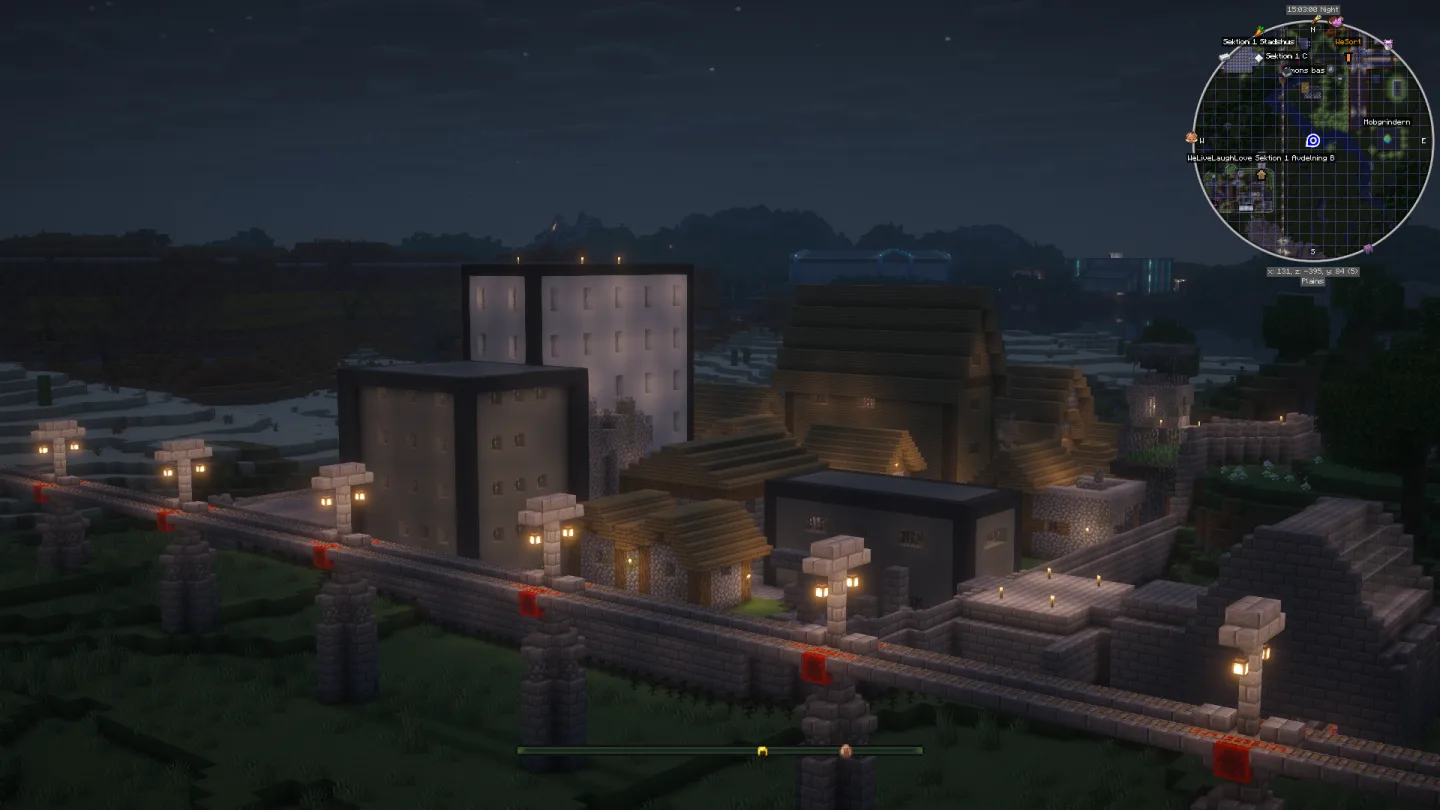
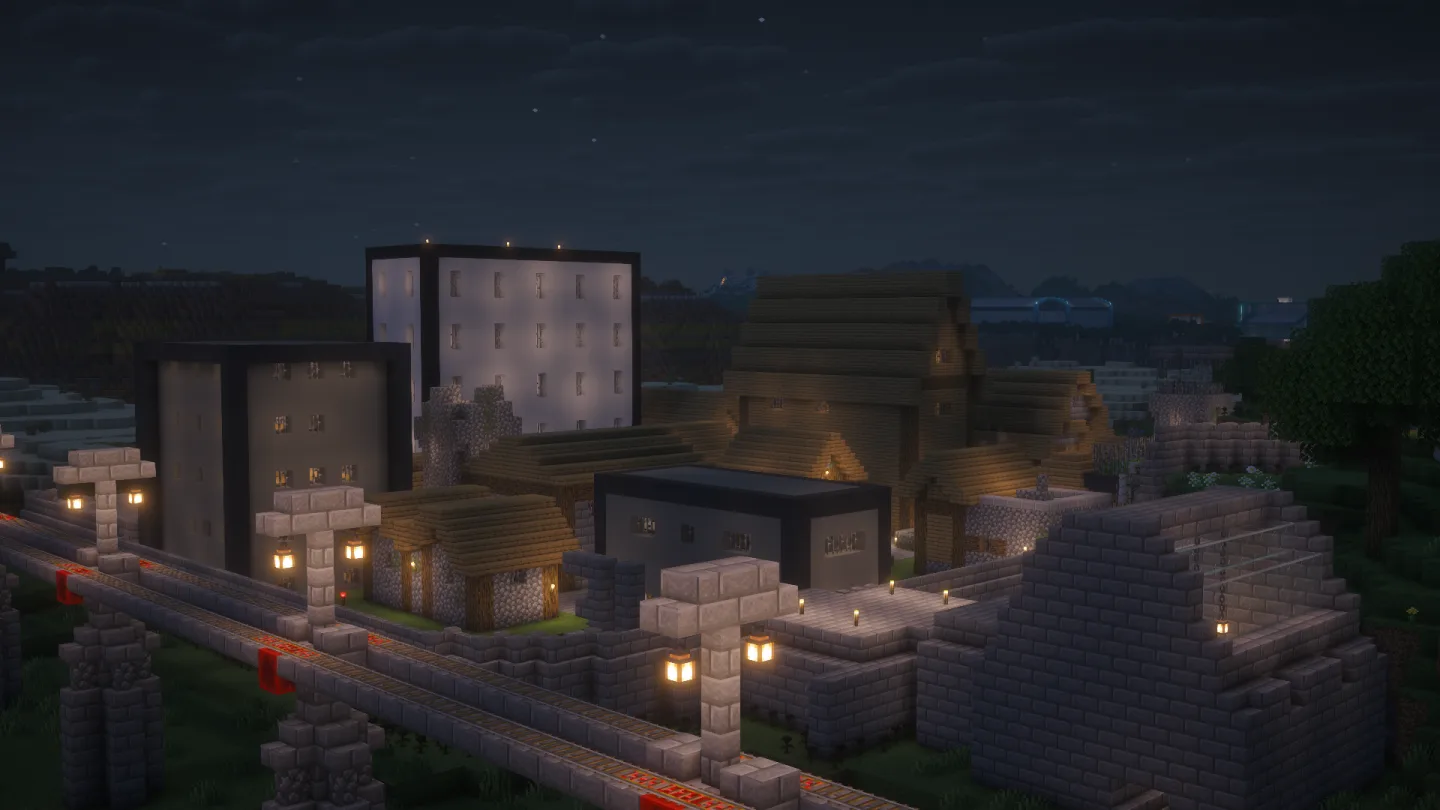
Remove gallery captions and correct Section 1 overview image

diff --git a/src/data/projects.ts b/src/data/projects.ts
@@ -10,7 +10,7 @@ export interface Project {
   alt: string;
   stage?: string;
   detailUrl?: string;
-  gallery?: { image: string; alt: string; caption: string }[];
+  gallery?: { image: string; alt: string }[];
 }
 export const projects: Project[] = [
   {
@@ -24,10 +24,10 @@ export const projects: Project[] = [
     detailUrl: '/arena/'
   },
   {id:'section-1-overview',name:'Sektion 1',division:'WeAB',category:'Infrastruktur',description:'Från järnfarmen till sorteringshallen ligger produktion, lager och räls inom bekvämt avstånd från ledningens kalkylark.',image:'/images/section-1-overview.webp',alt:'Överblick över Sektion 1 med järnfarm, produktionsbyggnader, mobgrinder och räls'},
-  {id:'bedrock-hole',name:'Bedrockhålet',division:'WeAB',category:'Monument · Sektion 1',description:'Bredvid WeKills kontor har en hel chunk grävts ned till bedrock. Väggarna pryds av guld, järn och smaragder. WeAB hade pengar över och valde ett projekt som inte riskerade att hjälpa någon.',image:'/images/bedrock-hole-exterior.webp',alt:'Bedrockhålet i Sektion 1 sett ovanifrån, med lysande pelare och väggar av guld, järn och smaragder',gallery:[{image:'/images/bedrock-hole-interior.webp',alt:'Vy uppåt genom Bedrockhålet mot himlen, med upplysta rader av guld, järn och smaragder längs väggarna',caption:'Från botten av schaktet'}]},
+  {id:'bedrock-hole',name:'Bedrockhålet',division:'WeAB',category:'Monument · Sektion 1',description:'Bredvid WeKills kontor har en hel chunk grävts ned till bedrock. Väggarna pryds av guld, järn och smaragder. WeAB hade pengar över och valde ett projekt som inte riskerade att hjälpa någon.',image:'/images/bedrock-hole-exterior.webp',alt:'Bedrockhålet i Sektion 1 sett ovanifrån, med lysande pelare och väggar av guld, järn och smaragder',gallery:[{image:'/images/bedrock-hole-interior.webp',alt:'Vy uppåt genom Bedrockhålet mot himlen, med upplysta rader av guld, järn och smaragder längs väggarna'}]},
   {id:'werule-riksdagshuset',name:'Riksdagshuset',division:'WeRule',category:'Offentlig byggnad · Huvudstaden',description:'Serverns riksdag ligger i en statlig byggnad i Huvudstaden. Byggnaden ägs av WeAB. Det offentliga uppdraget och den privata ägaren delar adress.',image:'/images/werule-riksdagshuset.webp',alt:'Riksdagshuset i Huvudstaden med cyan fasad, WE-symbol och vit staty intill'},
   {id:'werule-stadshus',name:'Stadshuset i Sektion 1',division:'WeRule',category:'Offentlig byggnad · Sektion 1',description:'WeRules stadshus i Sektion 1 är en egen byggnad, skild från Riksdagshuset i Huvudstaden. Dess plats finns markerad på servern.',image:'/images/werule-sektion-1-stadshus.webp',alt:'Stadshuset i Sektion 1, en mörk stenbyggnad med höga fönster och trappor vid entrén'},
-  {id:'wesort-facility', name:'WeSort-anläggningen',division:'WeSort', category:'Logistik', description:'Bakom den välordnade fasaden finns en sorteringshall med alldeles för många ambitioner.',image:'/images/wesort-exterior.webp',alt:'WeSort-anläggningens fasad',gallery:[{image:'/images/wesort-interior.webp',alt:'Sorteringshallen inne i WeSort-anläggningen',caption:'Sorteringshallen'}]},
+  {id:'wesort-facility', name:'WeSort-anläggningen',division:'WeSort', category:'Logistik', description:'Bakom den välordnade fasaden finns en sorteringshall med alldeles för många ambitioner.',image:'/images/wesort-exterior.webp',alt:'WeSort-anläggningens fasad',gallery:[{image:'/images/wesort-interior.webp',alt:'Sorteringshallen inne i WeSort-anläggningen'}]},
   {id:'webox',name:'WeBox-anslutningen',division:'WeBox',category:'Lagersystem',description:'Varje shulkerbox har en plats. Varje plats har en ägare.',image:'/images/webox-terminal.webp',alt:'WeBox terminal'},
   {id:'wekill-hq',name:'WeKill i Sektion 1',division:'WeKill',category:'Kontor',description:'Produktionsbolagets byggnad med den karakteristiska röda WE-identiteten.',image:'/images/wekill-headquarters.webp',alt:'WeKill huvudkontor'},
   {id:'wekill-farms',name:'Farmkomplexet',division:'WeKill',category:'Produktion',description:'En större grupp anläggningar för organiserad resursproduktion.',image:'/images/wekill-farms.webp',alt:'WeKill farmkomplex'},
@@ -44,10 +44,10 @@ export const projects: Project[] = [
   {id:'wetravel-huvudstaden-centralstation',name:'Huvudstadens centralstation',division:'WeTravel',category:'Station · Huvudstaden',description:'Inne på centralstationen i Huvudstaden möts räls, upplysta väggar och en lila portal.',image:'/images/wetravel-huvudstaden-centralstation.webp',alt:'WeTravels centralstation i Huvudstaden med räls, takbelysning och lila portal'},
   {id:'wetravel-sektion-1-centralstation',name:'Centralstationen i Sektion 1',division:'WeTravel',category:'Station · Sektion 1',description:'Centralstationen i Sektion 1 har en tegelfasad med turkosa dörrar. Här syns byggnaden utifrån.',image:'/images/wetravel-sektion-1-centralstation.webp',alt:'WeTravels centralstation i Sektion 1 med tegelfasad, lyktor och turkosa dörrar'},
   {id:'wegamble-island',name:'WeGamble Island',division:'WeGamble',category:'Underhållning',description:'En kasinoö växer fram vid kusten. Målet är enkelt: gästerna tar med diamanter. Koncernen ser till att de inte behöver bära hem dem.',image:'/images/construction-coast.webp',alt:'WeGamble Island, koncernens kasinoö under byggnation',stage:'Under byggnation'},
-  {id:'welivelaughlove-compound',name:'Sektion 1 · Avdelning B',division:'WeLiveLaughLove',category:'Boende',description:'En trygg och välavgränsad tillvaro i Sektion 1. Rörelsefriheten är lika stor för alla: tillräcklig.',image:'/images/welivelaughlove-compound.webp',alt:'WeLiveLaughLoves boendedistrikt i Sektion 1, Avdelning B, med WE-skylt',gallery:[{image:'/images/welivelaughlove-section-1-b-overview.webp',alt:'Nattvy över Sektion 1, Avdelning B, med inhägnade hus och upplyst järnväg i förgrunden',caption:'Sektion 1 · Avdelning B på natten'}]},
-  {id:'welivelaughlove-village',name:'Sektion 3 · Avdelning A',division:'WeLiveLaughLove',category:'Boende',description:'Ett annat boendedistrikt, i Sektion 3. Invånarna har återfunnit lugnet. Alternativa tolkningar av ordet lugn undanbedes.',image:'/images/welivelaughlove-village.webp',alt:'WeLiveLaughLoves boendedistrikt i Sektion 3, Avdelning A, med bybor och järngolem',gallery:[{image:'/images/welivelaughlove-section-3-a-overview.webp',alt:'Överblick nattetid över Sektion 3, Avdelning A, med murar, hus och orangevit byggnad i mitten',caption:'Sektion 3 · Avdelning A på natten'}]},
-  {id:'wetrade-exterior',name:'WeTrades handelsanläggning',division:'WeTrade',category:'Handel',description:'Grön skylt utanför, handelsdiskar innanför. En enda godkänd leverantör. Det är enklare så.',image:'/images/wetrade-exterior.webp',alt:'WeTrades handelsanläggning med grön WE-skylt',gallery:[{image:'/images/wetrade-hall.webp',alt:'Handelsdiskarna inne i WeTrades anläggning',caption:'Handelsavdelningen'},{image:'/images/wetrade-interior.webp',alt:'Översikt av interiören i samma WeTrade-anläggning',caption:'Interiören'}]},
-  {id:'welove-headquarters',name:'WeLoves personalanläggning',division:'WeLove',category:'Personalproduktion',description:'Rosa WE-skylt på utsidan. Familjeplanering på insidan. Koncernen räknar redan med nästa generation.',image:'/images/welove-headquarters.webp',alt:'WeLoves anläggning med rosa WE-skylt vid snöklädda berg',gallery:[{image:'/images/welove-breeder.webp',alt:'Produktionsmiljön inne i samma WeLove-anläggning',caption:'Produktionsmiljön'},{image:'/images/welove-villager.webp',alt:'Bybo inne i samma WeLove-anläggning',caption:'Framtida koncernmedarbetare'}]},
+  {id:'welivelaughlove-compound',name:'Sektion 1 · Avdelning B',division:'WeLiveLaughLove',category:'Boende',description:'En trygg och välavgränsad tillvaro i Sektion 1. Rörelsefriheten är lika stor för alla: tillräcklig.',image:'/images/welivelaughlove-compound.webp',alt:'WeLiveLaughLoves boendedistrikt i Sektion 1, Avdelning B, med WE-skylt',gallery:[{image:'/images/welivelaughlove-section-1-b-overview.webp',alt:'Nattvy över Sektion 1, Avdelning B, med inhägnade hus och upplyst järnväg i förgrunden'}]},
+  {id:'welivelaughlove-village',name:'Sektion 3 · Avdelning A',division:'WeLiveLaughLove',category:'Boende',description:'Ett annat boendedistrikt, i Sektion 3. Invånarna har återfunnit lugnet. Alternativa tolkningar av ordet lugn undanbedes.',image:'/images/welivelaughlove-village.webp',alt:'WeLiveLaughLoves boendedistrikt i Sektion 3, Avdelning A, med bybor och järngolem',gallery:[{image:'/images/welivelaughlove-section-3-a-overview.webp',alt:'Överblick nattetid över Sektion 3, Avdelning A, med murar, hus och orangevit byggnad i mitten'}]},
+  {id:'wetrade-exterior',name:'WeTrades handelsanläggning',division:'WeTrade',category:'Handel',description:'Grön skylt utanför, handelsdiskar innanför. En enda godkänd leverantör. Det är enklare så.',image:'/images/wetrade-exterior.webp',alt:'WeTrades handelsanläggning med grön WE-skylt',gallery:[{image:'/images/wetrade-hall.webp',alt:'Handelsdiskarna inne i WeTrades anläggning'},{image:'/images/wetrade-interior.webp',alt:'Översikt av interiören i samma WeTrade-anläggning'}]},
+  {id:'welove-headquarters',name:'WeLoves personalanläggning',division:'WeLove',category:'Personalproduktion',description:'Rosa WE-skylt på utsidan. Familjeplanering på insidan. Koncernen räknar redan med nästa generation.',image:'/images/welove-headquarters.webp',alt:'WeLoves anläggning med rosa WE-skylt vid snöklädda berg',gallery:[{image:'/images/welove-breeder.webp',alt:'Produktionsmiljön inne i samma WeLove-anläggning'},{image:'/images/welove-villager.webp',alt:'Bybo inne i samma WeLove-anläggning'}]},
 ];
 
 export const featuredProjectIds = ['wegamble-island', 'wekill-hq', 'welivelaughlove-compound'] as const;

diff --git a/src/data/arena.ts b/src/data/arena.ts
@@ -1,27 +1,19 @@
 export interface ArenaPhoto {
   src: string;
   alt: string;
-  title: string;
-  caption: string;
 }
 
 export const arenaPhotos: ArenaPhoto[] = [
   {
     src: '/images/huvudstadens-arena-exterior.webp',
-    alt: 'Översiktsbild av Huvudstadens stora arena i skymningen, med blåvita tak, cyanbelysta kanter och kringliggande landskap i Minecraft.',
-    title: 'Arenan från ovan',
-    caption: 'Den blåvita arenabyggnaden reser sig över huvudstadens omgivande landskap.'
+    alt: 'Översiktsbild av Huvudstadens stora arena i skymningen, med blåvita tak, cyanbelysta kanter och kringliggande landskap i Minecraft.'
   },
   {
     src: '/images/huvudstadens-arena-laktare.webp',
-    alt: 'Vy mot Huvudstadens arenas läktare och belysta ingång under det stora taket.',
-    title: 'Läktarna',
-    caption: 'Rader av sittplatser och belysta passager under det stora taket.'
+    alt: 'Vy mot Huvudstadens arenas läktare och belysta ingång under det stora taket.'
   },
   {
     src: '/images/huvudstadens-arena-interior.webp',
-    alt: 'Interiör med stenpelare, ljusinstallationer och trappstegsformade läktare i Huvudstadens arena.',
-    title: 'Arenans interiör',
-    caption: 'Stenarkitektur och ljussättning inne i arenakomplexet.'
+    alt: 'Interiör med stenpelare, ljusinstallationer och trappstegsformade läktare i Huvudstadens arena.'
   }
 ];

diff --git a/README.md b/README.md
@@ -53,8 +53,8 @@ Engångsinställning innan första publiceringen:
 ### Redigera innehåll
 
 - `src/data/companies.ts` – Företagsbeskrivningar, namn, accentfärger, bilder och status
-- `src/data/projects.ts` – Bilder och bildtexter i projektgalleriet
-- `src/data/arena.ts` – Arenagalleriets tre foton, alt-texter och bildbeskrivningar
+- `src/data/projects.ts` – Bilder och alt-texter i projektgalleriet
+- `src/data/arena.ts` – Arenagalleriets tre foton och alt-texter
 - `src/assets/we-logo.svg` – Den bifogade officiella WE-logotypen (gemensam för alla bolag)
 - `src/data/locations.ts` – Utvald servergeografi från JourneyMap-exporten (35 unika positioner, varav 14 WeKill-farmer)
 - `src/data/news.ts` – Nyhetsutkast
@@ -124,7 +124,7 @@ WeTrade och WeLove har egna verksamhetssidor och sex Minecraft-skärmbilder i We
 Webbplatsen är satir, inte en verklig företags- eller rekryteringssida. Platsannonserna är fiktiva exempel och nyhetstexterna påhittade. Den avsiktliga bolagsparodin ska vara tydlig utan att besökaren behöver läsa källkoden.
 
 Kustbygget hör till WeGamble Island. WeLiveLaughLoves bybilder visar Sektion 1 Avdelning B respektive Sektion 3 Avdelning A. WeSort-bilderna visar samma anläggning, liksom WeTrades tre bilder och WeLoves tre bilder. Arenabilderna visar Huvudstadens arena, som på kartan även heter Hungerspelsarenan, där bybor från olika distrikt tävlar om ära till sin hemby. Tre användarlevererade skärmbilder har konverterats till WebP (1440 × 810) i `public/images/`.
-De två nattliga överblicksbilderna från WeLiveLaughLove ligger i respektive avdelnings galleri: Sektion 1 Avdelning B och Sektion 3 Avdelning A.
+De två nattliga överblicksbilderna från WeLiveLaughLove ligger i respektive avdelnings galleri: Sektion 1 Avdelning B och Sektion 3 Avdelning A. Bilden för Sektion 1 Avdelning B är den rättade vyn utan kartöverlägg.
 WeKills mobgrinder, järnfarm och shulkerfarm har egna bilder i projektregistret. Shulkerfarmen försörjer WeBox med shulkerboxar. Överblicksbilden över Sektion 1 används även på startsidan.
 WeRules Riksdagshus ligger i Huvudstaden. Byggnaden är statlig och fungerar som serverns riksdag, men ägs av WeAB. WeRules stadshus ligger i Sektion 1 och har en separat markering i platslistan. Huvudstadens platsmarkering är inte en exakt koordinat för Riksdagshuset.
 Överblicken över Huvudstaden visas på koncernsidan utan att tillskriva WeAB hela staden. WeTravels två centralstationer i Huvudstaden och Sektion 1 har var sin bild i anläggningsgalleriet och visas även på WeTravels verksamhetssida.
